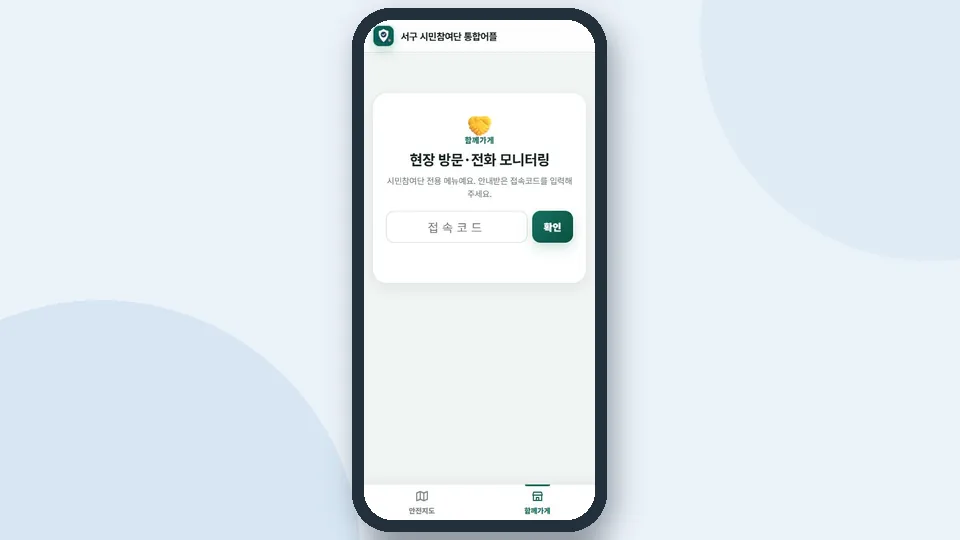
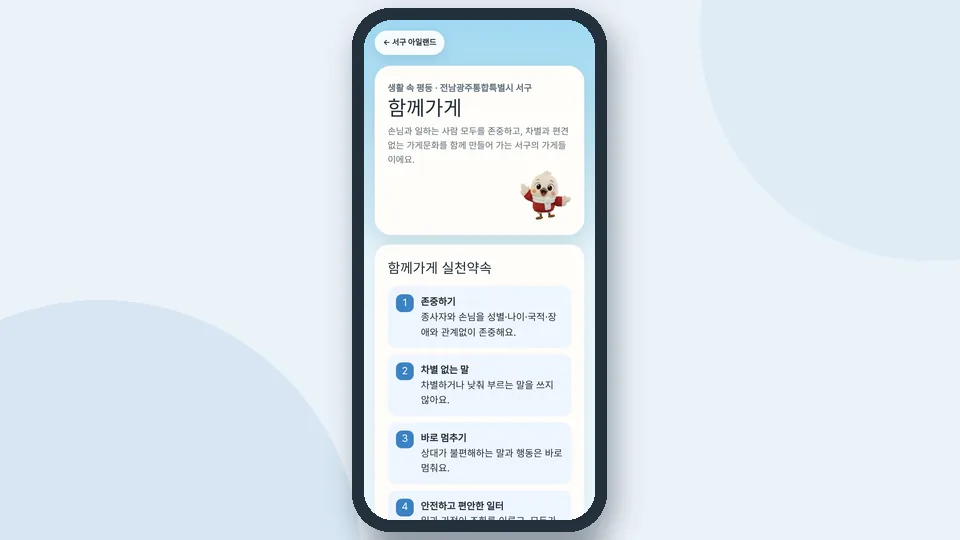
Island: public 함께가게 intro page (no store list or contacts) with a 시민참여단 entry button to the app's 함께가게 tab; card now opens the intro
Claude-Session: https://claude.ai/code/session_01Rn2FnTmWsitNSVHCMP1upV

diff --git a/store/index.html b/store/index.html
@@ -1,0 +1,102 @@
+<!doctype html>
+<html lang="ko">
+<head>
+<meta charset="utf-8">
+<meta name="viewport" content="width=device-width,initial-scale=1,viewport-fit=cover">
+<title>함께가게 · 생활 속 평등 | 서구 아일랜드</title>
+<meta name="description" content="손님과 일하는 사람 모두를 존중하는 가게문화, 전남광주통합특별시 서구 함께가게를 소개합니다.">
+<meta property="og:title" content="함께가게 · 생활 속 평등">
+<meta property="og:description" content="손님과 일하는 사람 모두를 존중하는 서구의 함께가게를 소개합니다.">
+<link rel="preconnect" href="https://fonts.googleapis.com">
+<link rel="preconnect" href="https://fonts.gstatic.com" crossorigin>
+<link href="https://fonts.googleapis.com/css2?family=Jua&family=IBM+Plex+Sans+KR:wght@400;500;700&display=swap" rel="stylesheet">
+<style>
+:root{--ink:#23303b;--muted:#5f6f7c;--blue:#3b82c4;--blue-deep:#2c6aa3;--paper:#fffdf9;--line:rgba(35,48,59,.12);
+  --display:"Jua","IBM Plex Sans KR",system-ui,sans-serif;--body:"IBM Plex Sans KR",system-ui,-apple-system,"Apple SD Gothic Neo",sans-serif}
+*{box-sizing:border-box}
+html,body{margin:0}
+body{background:linear-gradient(#9fd8f2,#e9f7fb 420px,#f4f8fb);color:var(--ink);font-family:var(--body);line-height:1.6;-webkit-text-size-adjust:100%}
+.wrap{max-width:720px;margin:0 auto;padding:calc(env(safe-area-inset-top,0px) + 18px) 18px calc(env(safe-area-inset-bottom,0px) + 32px)}
+.top{display:flex;justify-content:space-between;align-items:center;gap:10px}
+.back{display:inline-flex;align-items:center;gap:6px;padding:10px 14px;border-radius:999px;background:rgba(255,255,255,.9);color:var(--ink);text-decoration:none;font-size:13px;font-weight:700;box-shadow:0 6px 20px rgba(20,60,80,.12)}
+.hero{margin-top:18px;padding:26px 22px;border-radius:28px;background:var(--paper);box-shadow:0 14px 40px rgba(20,60,80,.14);display:grid;grid-template-columns:1fr auto;gap:12px;align-items:center}
+.eyebrow{margin:0;color:var(--blue);font-size:13px;font-weight:700}
+h1{margin:4px 0 8px;font-family:var(--display);font-weight:400;font-size:40px;line-height:1.1}
+.hero p{margin:0;color:var(--muted);font-size:15px}
+.hero img{width:110px;height:auto}
+section{margin-top:16px;padding:22px;border-radius:24px;background:var(--paper);box-shadow:0 8px 26px rgba(20,60,80,.08)}
+h2{margin:0 0 12px;font-family:var(--display);font-weight:400;font-size:23px}
+.pledges{list-style:none;margin:0;padding:0;display:grid;gap:10px}
+.pledges li{display:flex;gap:12px;align-items:flex-start;padding:14px;border-radius:16px;background:#eef5fc}
+.pledges i{flex:0 0 auto;display:grid;place-items:center;width:30px;height:30px;border-radius:10px;background:var(--blue);color:#fff;font-style:normal;font-family:var(--display);font-size:17px}
+.pledges b{font-weight:700}
+.steps{display:grid;grid-template-columns:repeat(3,1fr);gap:10px}
+.step{padding:16px 14px;border-radius:18px;background:#f6f8fa;text-align:center}
+.step .ico{font-size:28px;line-height:1}
+.step b{display:block;margin-top:8px;font-size:15px}
+.step small{display:block;margin-top:4px;color:var(--muted);font-size:13px;line-height:1.5}
+.duo{display:grid;grid-template-columns:1fr 1fr;gap:10px}
+.duo div{padding:16px;border-radius:18px;background:#f6f8fa}
+.duo b{display:block;font-size:15px}
+.duo small{display:block;margin-top:4px;color:var(--muted);font-size:13px;line-height:1.55}
+.note{margin:12px 0 0;color:var(--muted);font-size:14px}
+.enter{margin-top:16px;padding:22px;border-radius:24px;background:#1f3a5f;color:#fff;text-align:center}
+.enter p{margin:0 0 14px;font-size:14px;opacity:.9}
+.enter a{display:inline-flex;align-items:center;justify-content:center;gap:8px;min-width:240px;padding:15px 22px;border-radius:16px;background:#fff;color:#1f3a5f;text-decoration:none;font-weight:700;font-size:16px}
+.enter small{display:block;margin-top:10px;opacity:.75;font-size:12px}
+footer{margin-top:20px;text-align:center;color:var(--muted);font-size:12px}
+@media (max-width:560px){h1{font-size:34px}.hero{grid-template-columns:1fr}.hero img{width:86px;justify-self:end;margin-top:-6px}.steps{grid-template-columns:1fr}.duo{grid-template-columns:1fr}.step{display:grid;grid-template-columns:auto 1fr;gap:4px 12px;text-align:left;align-items:center}.step .ico{grid-row:span 2}.step b{margin:0}.step small{margin:0}}
+</style>
+</head>
+<body>
+<div class="wrap">
+  <div class="top"><a class="back" href="../">← 서구 아일랜드</a></div>
+
+  <header class="hero">
+    <div>
+      <p class="eyebrow">생활 속 평등 · 전남광주통합특별시 서구</p>
+      <h1>함께가게</h1>
+      <p>손님과 일하는 사람 모두를 존중하고, 차별과 편견 없는 가게문화를 함께 만들어 가는 서구의 가게들이에요.</p>
+    </div>
[1 lines of base64/hex data omitted]
+  </header>
+
+  <section>
+    <h2>함께가게 실천약속</h2>
+    <ol class="pledges">
+      <li><i>1</i><span><b>존중하기</b><br>종사자와 손님을 성별·나이·국적·장애와 관계없이 존중해요.</span></li>
+      <li><i>2</i><span><b>차별 없는 말</b><br>차별하거나 낮춰 부르는 말을 쓰지 않아요.</span></li>
+      <li><i>3</i><span><b>바로 멈추기</b><br>상대가 불편해하는 말과 행동은 바로 멈춰요.</span></li>
+      <li><i>4</i><span><b>안전하고 편안한 일터</b><br>일과 가정이 조화를 이루고, 모두가 안전하고 편안한 일터를 만들어요.</span></li>
+    </ol>
+    <p class="note">참여 가게는 이 가운데 가장 먼저 실천할 약속 한 가지를 골라 '우리 가게 약속'으로 지켜요.</p>
+  </section>
+
+  <section>
+    <h2>참여 가게는 이렇게 해요</h2>
+    <div class="steps">
+      <div class="step"><div class="ico">✍</div><b>약속하고 서명</b><small>실천약속을 함께 읽고 참여 서명을 해요</small></div>
+      <div class="step"><div class="ico">☝</div><b>약속 한 가지 고르기</b><small>우리 가게가 먼저 지킬 약속을 정해요</small></div>
+      <div class="step"><div class="ico">🖼</div><b>액자 걸기</b><small>손님이 잘 보이는 곳에 실천약속 액자를 둬요</small></div>
+    </div>
+  </section>
+
+  <section>
+    <h2>시민참여단이 함께해요</h2>
+    <div class="duo">
+      <div><b>🚶 현장 방문</b><small>서구 여성친화도시 시민참여단이 가게를 찾아가 실천약속을 안내하고 액자를 전해 드려요.</small></div>
+      <div><b>📞 전화 모니터링</b><small>방문 1~2개월 뒤 짧게 전화해서 약속이 잘 지켜지는지, 필요한 지원은 없는지 여쭤봐요.</small></div>
+    </div>
+    <p class="note">모은 의견은 홍보·디자인처럼 가게 운영에 도움이 되는 상생 지원을 마련하는 데 쓰여요.</p>
+  </section>
+
+  <div class="enter">
+    <p>시민참여단이신가요? 방문·전화 결과는 통합어플에서 기록해요.</p>
+    <a href="https://hkejys9654-tech.github.io/seogu-safety-map/?tab=hamkke" target="_blank" rel="noopener">🤝 시민참여단 입장 ↗</a>
+    <small>안내받은 접속코드가 필요해요 · 가게 명단과 기록은 시민참여단만 볼 수 있어요</small>
+  </div>
+
+  <footer>전남광주통합특별시 서구 · 서구 여성친화도시 시민참여단</footer>
+</div>
+</body>
+</html>

diff --git a/src/store.html b/src/store.html
@@ -1,0 +1,102 @@
+<!doctype html>
+<html lang="ko">
+<head>
+<meta charset="utf-8">
+<meta name="viewport" content="width=device-width,initial-scale=1,viewport-fit=cover">
+<title>함께가게 · 생활 속 평등 | 서구 아일랜드</title>
+<meta name="description" content="손님과 일하는 사람 모두를 존중하는 가게문화, 전남광주통합특별시 서구 함께가게를 소개합니다.">
+<meta property="og:title" content="함께가게 · 생활 속 평등">
+<meta property="og:description" content="손님과 일하는 사람 모두를 존중하는 서구의 함께가게를 소개합니다.">
+<link rel="preconnect" href="https://fonts.googleapis.com">
+<link rel="preconnect" href="https://fonts.gstatic.com" crossorigin>
+<link href="https://fonts.googleapis.com/css2?family=Jua&family=IBM+Plex+Sans+KR:wght@400;500;700&display=swap" rel="stylesheet">
+<style>
+:root{--ink:#23303b;--muted:#5f6f7c;--blue:#3b82c4;--blue-deep:#2c6aa3;--paper:#fffdf9;--line:rgba(35,48,59,.12);
+  --display:"Jua","IBM Plex Sans KR",system-ui,sans-serif;--body:"IBM Plex Sans KR",system-ui,-apple-system,"Apple SD Gothic Neo",sans-serif}
+*{box-sizing:border-box}
+html,body{margin:0}
+body{background:linear-gradient(#9fd8f2,#e9f7fb 420px,#f4f8fb);color:var(--ink);font-family:var(--body);line-height:1.6;-webkit-text-size-adjust:100%}
+.wrap{max-width:720px;margin:0 auto;padding:calc(env(safe-area-inset-top,0px) + 18px) 18px calc(env(safe-area-inset-bottom,0px) + 32px)}
+.top{display:flex;justify-content:space-between;align-items:center;gap:10px}
+.back{display:inline-flex;align-items:center;gap:6px;padding:10px 14px;border-radius:999px;background:rgba(255,255,255,.9);color:var(--ink);text-decoration:none;font-size:13px;font-weight:700;box-shadow:0 6px 20px rgba(20,60,80,.12)}
+.hero{margin-top:18px;padding:26px 22px;border-radius:28px;background:var(--paper);box-shadow:0 14px 40px rgba(20,60,80,.14);display:grid;grid-template-columns:1fr auto;gap:12px;align-items:center}
+.eyebrow{margin:0;color:var(--blue);font-size:13px;font-weight:700}
+h1{margin:4px 0 8px;font-family:var(--display);font-weight:400;font-size:40px;line-height:1.1}
+.hero p{margin:0;color:var(--muted);font-size:15px}
+.hero img{width:110px;height:auto}
+section{margin-top:16px;padding:22px;border-radius:24px;background:var(--paper);box-shadow:0 8px 26px rgba(20,60,80,.08)}
+h2{margin:0 0 12px;font-family:var(--display);font-weight:400;font-size:23px}
+.pledges{list-style:none;margin:0;padding:0;display:grid;gap:10px}
+.pledges li{display:flex;gap:12px;align-items:flex-start;padding:14px;border-radius:16px;background:#eef5fc}
+.pledges i{flex:0 0 auto;display:grid;place-items:center;width:30px;height:30px;border-radius:10px;background:var(--blue);color:#fff;font-style:normal;font-family:var(--display);font-size:17px}
+.pledges b{font-weight:700}
+.steps{display:grid;grid-template-columns:repeat(3,1fr);gap:10px}
+.step{padding:16px 14px;border-radius:18px;background:#f6f8fa;text-align:center}
+.step .ico{font-size:28px;line-height:1}
+.step b{display:block;margin-top:8px;font-size:15px}
+.step small{display:block;margin-top:4px;color:var(--muted);font-size:13px;line-height:1.5}
+.duo{display:grid;grid-template-columns:1fr 1fr;gap:10px}
+.duo div{padding:16px;border-radius:18px;background:#f6f8fa}
+.duo b{display:block;font-size:15px}
+.duo small{display:block;margin-top:4px;color:var(--muted);font-size:13px;line-height:1.55}
+.note{margin:12px 0 0;color:var(--muted);font-size:14px}
+.enter{margin-top:16px;padding:22px;border-radius:24px;background:#1f3a5f;color:#fff;text-align:center}
+.enter p{margin:0 0 14px;font-size:14px;opacity:.9}
+.enter a{display:inline-flex;align-items:center;justify-content:center;gap:8px;min-width:240px;padding:15px 22px;border-radius:16px;background:#fff;color:#1f3a5f;text-decoration:none;font-weight:700;font-size:16px}
+.enter small{display:block;margin-top:10px;opacity:.75;font-size:12px}
+footer{margin-top:20px;text-align:center;color:var(--muted);font-size:12px}
+@media (max-width:560px){h1{font-size:34px}.hero{grid-template-columns:1fr}.hero img{width:86px;justify-self:end;margin-top:-6px}.steps{grid-template-columns:1fr}.duo{grid-template-columns:1fr}.step{display:grid;grid-template-columns:auto 1fr;gap:4px 12px;text-align:left;align-items:center}.step .ico{grid-row:span 2}.step b{margin:0}.step small{margin:0}}
+</style>
+</head>
+<body>
+<div class="wrap">
+  <div class="top"><a class="back" href="../">← 서구 아일랜드</a></div>
+
+  <header class="hero">
+    <div>
+      <p class="eyebrow">생활 속 평등 · 전남광주통합특별시 서구</p>
+      <h1>함께가게</h1>
+      <p>손님과 일하는 사람 모두를 존중하고, 차별과 편견 없는 가게문화를 함께 만들어 가는 서구의 가게들이에요.</p>
+    </div>
+    <img alt="손 흔드는 해온이" src="__HAEON_WAVE__">
+  </header>
+
+  <section>
+    <h2>함께가게 실천약속</h2>
+    <ol class="pledges">
+      <li><i>1</i><span><b>존중하기</b><br>종사자와 손님을 성별·나이·국적·장애와 관계없이 존중해요.</span></li>
+      <li><i>2</i><span><b>차별 없는 말</b><br>차별하거나 낮춰 부르는 말을 쓰지 않아요.</span></li>
+      <li><i>3</i><span><b>바로 멈추기</b><br>상대가 불편해하는 말과 행동은 바로 멈춰요.</span></li>
+      <li><i>4</i><span><b>안전하고 편안한 일터</b><br>일과 가정이 조화를 이루고, 모두가 안전하고 편안한 일터를 만들어요.</span></li>
+    </ol>
+    <p class="note">참여 가게는 이 가운데 가장 먼저 실천할 약속 한 가지를 골라 '우리 가게 약속'으로 지켜요.</p>
+  </section>
+
+  <section>
+    <h2>참여 가게는 이렇게 해요</h2>
+    <div class="steps">
+      <div class="step"><div class="ico">✍</div><b>약속하고 서명</b><small>실천약속을 함께 읽고 참여 서명을 해요</small></div>
+      <div class="step"><div class="ico">☝</div><b>약속 한 가지 고르기</b><small>우리 가게가 먼저 지킬 약속을 정해요</small></div>
+      <div class="step"><div class="ico">🖼</div><b>액자 걸기</b><small>손님이 잘 보이는 곳에 실천약속 액자를 둬요</small></div>
+    </div>
+  </section>
+
+  <section>
+    <h2>시민참여단이 함께해요</h2>
+    <div class="duo">
+      <div><b>🚶 현장 방문</b><small>서구 여성친화도시 시민참여단이 가게를 찾아가 실천약속을 안내하고 액자를 전해 드려요.</small></div>
+      <div><b>📞 전화 모니터링</b><small>방문 1~2개월 뒤 짧게 전화해서 약속이 잘 지켜지는지, 필요한 지원은 없는지 여쭤봐요.</small></div>
+    </div>
+    <p class="note">모은 의견은 홍보·디자인처럼 가게 운영에 도움이 되는 상생 지원을 마련하는 데 쓰여요.</p>
+  </section>
+
+  <div class="enter">
+    <p>시민참여단이신가요? 방문·전화 결과는 통합어플에서 기록해요.</p>
+    <a href="https://hkejys9654-tech.github.io/seogu-safety-map/?tab=hamkke" target="_blank" rel="noopener">🤝 시민참여단 입장 ↗</a>
+    <small>안내받은 접속코드가 필요해요 · 가게 명단과 기록은 시민참여단만 볼 수 있어요</small>
+  </div>
+
+  <footer>전남광주통합특별시 서구 · 서구 여성친화도시 시민참여단</footer>
+</div>
+</body>
+</html>

diff --git a/index.html b/index.html
@@ -204,10 +204,10 @@ const PROJECTS=[
    one:"동네에서 어둡거나 불안한 곳을 지도에 콕 찍어 의견으로 남겨요.",
    chips:["18개 동 안전지도","의견 남기기","내 의견 모아보기"],url:"https://hkejys9654-tech.github.io/seogu-safety-map/",
    talk:{hi:"반가워요! 시민참여단과 함께 동네 안전을 살피는 지도 해온이예요.",what:"여성안심귀갓길·안전골목 같은 안전시설을 지도에서 보고, 어둡거나 불안한 곳을 콕 찍어 의견으로 남기는 앱이에요. 사진이나 개인정보는 받지 않아요.",who:"서구 여성친화도시 시민참여단 분들이 써요. 내가 남긴 의견은 '내 의견'에서 다시 볼 수 있어요."}},
-  {key:"store",no:"03",name:"함께가게",color:"#3b82c4",pose:"wave",who:"여성친화도시 시민참여단",
-   one:"존중과 배려를 약속한 함께가게를 찾아가고 전화로 살펴, 결과를 기록해요. 앱을 열고 아래 '함께가게' 탭을 누르세요.",
-   chips:["현장 방문 기록","전화 모니터링","실천약속 액자 전달"],url:"https://hkejys9654-tech.github.io/seogu-safety-map/",
-   talk:{hi:"어서 오세요! 함께가게를 돌보는 가게 해온이예요.",what:"손님과 일하는 사람 모두를 존중하는 가게문화를 약속한 '함께가게'를, 시민참여단이 직접 찾아가거나 전화로 살펴보고 결과를 기록하는 메뉴예요.",who:"시민참여단 전용이에요. 통합어플을 열고 아래 '함께가게' 탭에서 안내받은 접속코드를 넣으면 돼요."}},
+  {key:"store",no:"03",name:"함께가게",color:"#3b82c4",pose:"wave",who:"서구 주민 누구나 · 시민참여단",
+   one:"손님과 일하는 사람 모두를 존중하는 가게문화를 약속한 서구의 함께가게를 소개해요. 시민참여단은 여기서 바로 입장해요.",
+   chips:["실천약속 4가지","현장 방문·전화 모니터링","시민참여단 입장"],url:"https://hkejys9654-tech.github.io/seogu-island/store/",
+   talk:{hi:"어서 오세요! 함께가게를 돌보는 가게 해온이예요.",what:"손님과 일하는 사람 모두를 존중하는 가게문화를 약속한 '함께가게'를, 시민참여단이 직접 찾아가거나 전화로 살펴보고 결과를 기록하는 메뉴예요.",who:"함께가게 소개는 누구나 볼 수 있어요. 방문·전화 결과 기록은 시민참여단이 소개 화면 맨 아래 '시민참여단 입장'에서 접속코드를 넣고 해요."}},
   {key:"family",no:"04",name:"함께가정 · 함께 잇다",color:"#e0628a",pose:"heart",who:"「함께 잇다」 참여 가정",
    one:"우리 가족 역할을 함께 살펴보고, 30일 동안의 변화를 사전·사후 진단으로 기록해요.",
    chips:["가정 번호로 시작","사전·사후 진단","30일 변화 기록"],url:"https://haeoni-banban-family.jimmmmay.chatgpt.site/",

diff --git a/src/template.html b/src/template.html
@@ -192,10 +192,10 @@ const PROJECTS=[
    one:"동네에서 어둡거나 불안한 곳을 지도에 콕 찍어 의견으로 남겨요.",
    chips:["18개 동 안전지도","의견 남기기","내 의견 모아보기"],url:"https://hkejys9654-tech.github.io/seogu-safety-map/",
    talk:{hi:"반가워요! 시민참여단과 함께 동네 안전을 살피는 지도 해온이예요.",what:"여성안심귀갓길·안전골목 같은 안전시설을 지도에서 보고, 어둡거나 불안한 곳을 콕 찍어 의견으로 남기는 앱이에요. 사진이나 개인정보는 받지 않아요.",who:"서구 여성친화도시 시민참여단 분들이 써요. 내가 남긴 의견은 '내 의견'에서 다시 볼 수 있어요."}},
-  {key:"store",no:"03",name:"함께가게",color:"#3b82c4",pose:"wave",who:"여성친화도시 시민참여단",
-   one:"존중과 배려를 약속한 함께가게를 찾아가고 전화로 살펴, 결과를 기록해요. 앱을 열고 아래 '함께가게' 탭을 누르세요.",
-   chips:["현장 방문 기록","전화 모니터링","실천약속 액자 전달"],url:"https://hkejys9654-tech.github.io/seogu-safety-map/",
-   talk:{hi:"어서 오세요! 함께가게를 돌보는 가게 해온이예요.",what:"손님과 일하는 사람 모두를 존중하는 가게문화를 약속한 '함께가게'를, 시민참여단이 직접 찾아가거나 전화로 살펴보고 결과를 기록하는 메뉴예요.",who:"시민참여단 전용이에요. 통합어플을 열고 아래 '함께가게' 탭에서 안내받은 접속코드를 넣으면 돼요."}},
+  {key:"store",no:"03",name:"함께가게",color:"#3b82c4",pose:"wave",who:"서구 주민 누구나 · 시민참여단",
+   one:"손님과 일하는 사람 모두를 존중하는 가게문화를 약속한 서구의 함께가게를 소개해요. 시민참여단은 여기서 바로 입장해요.",
+   chips:["실천약속 4가지","현장 방문·전화 모니터링","시민참여단 입장"],url:"https://hkejys9654-tech.github.io/seogu-island/store/",
+   talk:{hi:"어서 오세요! 함께가게를 돌보는 가게 해온이예요.",what:"손님과 일하는 사람 모두를 존중하는 가게문화를 약속한 '함께가게'를, 시민참여단이 직접 찾아가거나 전화로 살펴보고 결과를 기록하는 메뉴예요.",who:"함께가게 소개는 누구나 볼 수 있어요. 방문·전화 결과 기록은 시민참여단이 소개 화면 맨 아래 '시민참여단 입장'에서 접속코드를 넣고 해요."}},
   {key:"family",no:"04",name:"함께가정 · 함께 잇다",color:"#e0628a",pose:"heart",who:"「함께 잇다」 참여 가정",
    one:"우리 가족 역할을 함께 살펴보고, 30일 동안의 변화를 사전·사후 진단으로 기록해요.",
    chips:["가정 번호로 시작","사전·사후 진단","30일 변화 기록"],url:"https://haeoni-banban-family.jimmmmay.chatgpt.site/",

diff --git a/src/build.py b/src/build.py
@@ -8,3 +8,7 @@ news = json.dumps(json.loads((root / "news.json").read_text(encoding="utf-8")), 
 t = t.replace("__HAEON__", haeon).replace("__NEWS__", news).replace("</style>\n", "</style>\n</head>\n<body>\n", 1)
 (root / "index.html").write_text((src / "head.html").read_text(encoding="utf-8") + t + "\n</body>\n</html>\n", encoding="utf-8")
 print("built", len(t))
+# 함께가게 소개 페이지(개인정보 없는 공개 화면): src/store.html → store/index.html
+(root / "store").mkdir(exist_ok=True)
+(root / "store" / "index.html").write_text((src / "store.html").read_text(encoding="utf-8").replace("__HAEON_WAVE__", json.loads((src / "haeon.json").read_text(encoding="utf-8"))["wave"]), encoding="utf-8")
+print("built store page")
